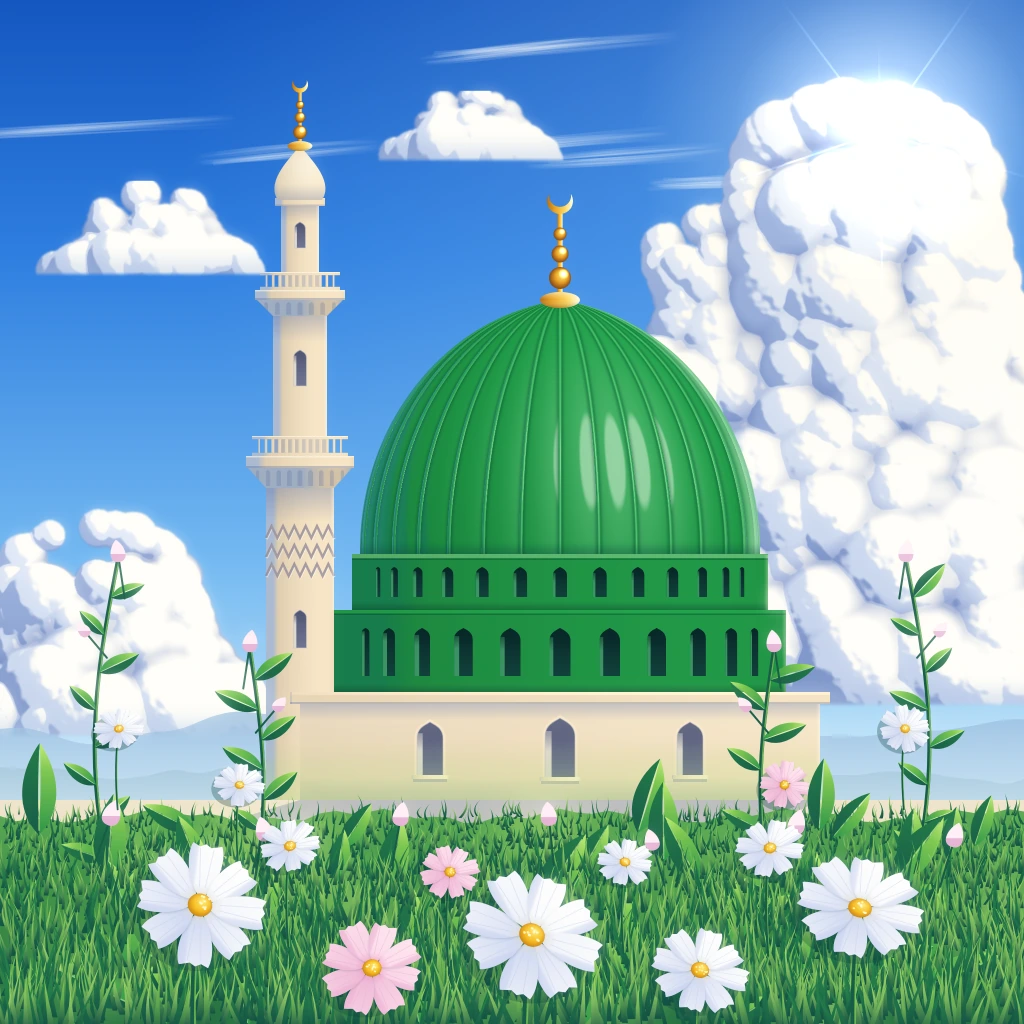
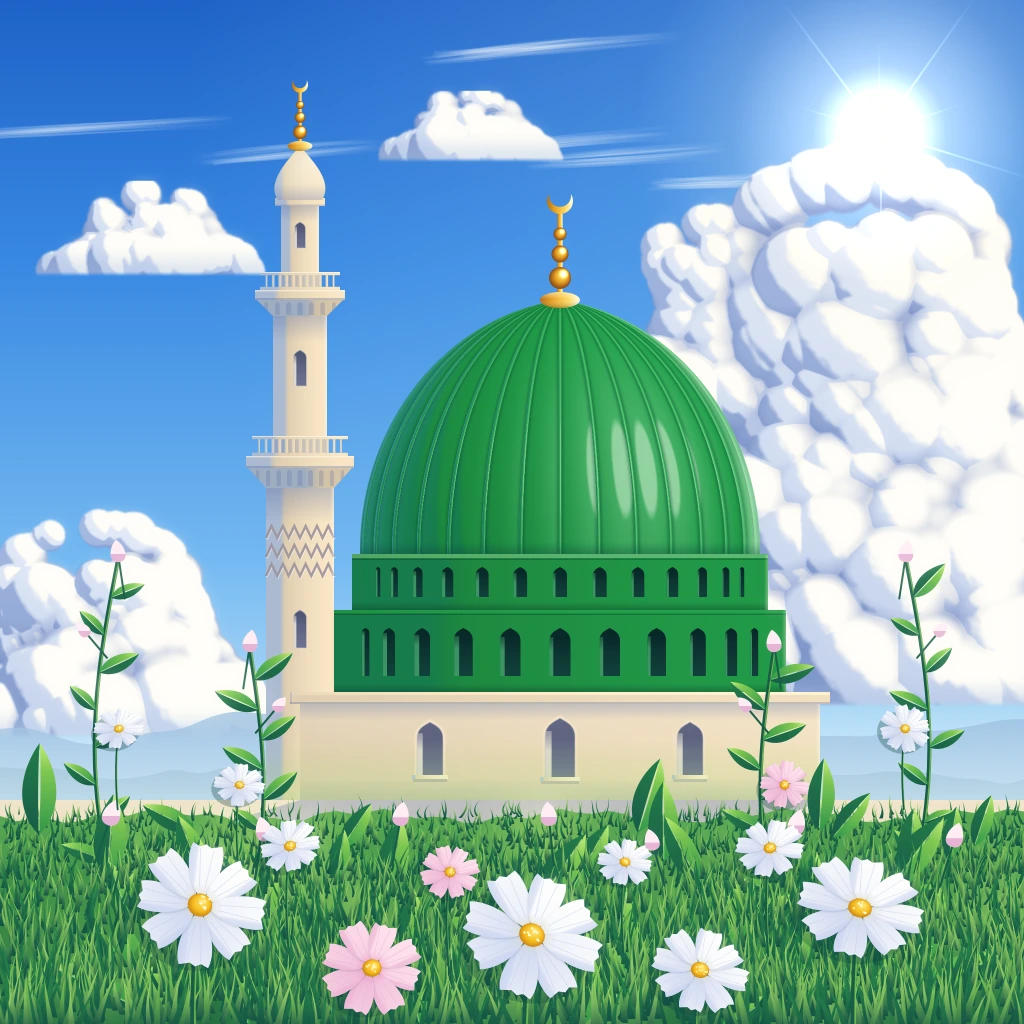
Atölye: vektör grafikleri (S-126–S-130) gözden geçirildi
Claude-Session: https://claude.ai/code/session_01Q8CfoBGMPN7gfLWQYpMs1J

diff --git a/atolye/stiller/S-157-yumusak-kabartma/ornek.html b/atolye/stiller/S-157-yumusak-kabartma/ornek.html
@@ -233,13 +233,13 @@
   const boyaC = S.yeniTuval(N, N), B = boyaC.getContext('2d', { willReadFrequently: true });
   B.setTransform(SS, 0, 0, SS, 0, 0);
   const R = {
-    gokUst: '#CFE0EF', gokAlt: '#E6EEF4', zemin: '#F1E5D2', zeminAlt: '#ECDDC6',
-    gunes: '#F5DE96', canak: '#DFE9F2', bulut: '#F5F8FB',
-    tas: '#F2E8D6', tasAcik: '#F6EFE2', pencereTas: '#C2D9E8',
-    kasnakAlt: '#AED9BD', kasnakUst: '#BCE2C9', kubbe: '#ABD9BB', pencereYesil: '#8EC6A2',
-    altin: '#E8CC86',
-    yaprak: '#B9DABE', yaprakKoyu: '#ABD2B2', sap: '#B0D3B6',
-    cicek: '#FBFBF8', orta: '#F2D985', tomurcuk: '#F2CCD4', zikzak: '#E3C98F',
+    gokUst: '#DCD6EE', gokAlt: '#E6E1F2', zemin: '#ECE4F1', zeminAlt: '#E8DFEE',
+    gunes: '#F7E4A2', canak: '#E1DCF0', bulut: '#E4DFF1',
+    tas: '#F4F0F7', tasAcik: '#F7F4FA', pencereTas: '#D3CCE8',
+    kasnakAlt: '#B5DEC9', kasnakUst: '#C2E5D3', kubbe: '#B3DDC7', pencereYesil: '#9CCFB5',
+    altin: '#EED291',
+    yaprak: '#C3E0CE', yaprakKoyu: '#B6D9C3', sap: '#BCDCC8',
+    cicek: '#FDFCFE', orta: '#F5DE96', tomurcuk: '#EDC6DA', zikzak: '#E9D29C',
   };
   {
     const g = B.createLinearGradient(0, 0, 0, 800);
@@ -293,7 +293,7 @@
       const x = bx + dx * s, y = by + dy * s, l = L * s, t = T * s;
       const M = maske([x - l / 2, y - t / 2, x + l / 2, y + t / 2], (m) => { hap(m, x, y, l, t); m.fill(); });
       kabart(M, h, t * 0.45, { prof: 'yastik' });
-      B.fillStyle = 'rgba(255,255,255,0.32)'; hap(B, x, y, l, t); B.fill();
+      B.fillStyle = 'rgba(255,255,255,0.12)'; hap(B, x, y, l, t); B.fill();
     }
   }
 
@@ -453,6 +453,11 @@
   for (const c of S.bitki.cicekler) {
     const tac = S.tacYapraklari(c);
     tac.forEach((e, k) => bitkiKabart(elipsMaske(e), 4.2 + 0.2 * k, c.r * 0.22));
+    for (const e of tac) {
+      const a = e.aci + Math.PI / 5;
+      const a0 = [c.x + Math.cos(a) * c.r * 0.28, c.y + Math.sin(a) * c.r * 0.28], a1 = [c.x + Math.cos(a) * c.r * 0.9, c.y + Math.sin(a) * c.r * 0.9];
+      ekle(cizgiMaske([a0, a1], Math.max(2.6, c.r * 0.07)), -1.6, Math.max(1.3, c.r * 0.035), { prof: 'yastik' });
+    }
     const tp = new Path2D(); for (const e of tac) tp.addPath(P(S.elipsYolu(e)));
     boya(tp, R.cicek);
     const ro = c.r * 0.22;
@@ -467,11 +472,11 @@
     const L = [0.6, -0.6, 0.53];
     const ln = Math.hypot(...L); L[0] /= ln; L[1] /= ln; L[2] /= ln;
     const ux = 0.7071, uy = -0.7071;
-    const Hb2 = bulanik(H, N, N, 26, 3);
+    const Hb2 = bulanik(H, N, N, 30, 3);
     const Hb3 = bulanik(H, N, N, 6, 3);
     const alb = B.getImageData(0, 0, N, N).data;
     const out = ctx.createImageData(N, N), o = out.data;
-    const off = 13 * SS, off2 = 3.5 * SS;
+    const off = 17 * SS, off2 = 4 * SS;
     const rd = S.rng(157);
     const smp = (A, x, y) => { x = clamp(x | 0, 0, N - 1); y = clamp(y | 0, 0, N - 1); return A[y * N + x]; };
     for (let y = 0; y < N; y++) {
@@ -483,17 +488,17 @@
         const dy = (H[y1 * N + x] - H[y0 * N + x]) * SS / (y1 - y0);
         const il = 1 / Math.sqrt(dx * dx + dy * dy + 1);
         const ndl = (-dx * L[0] - dy * L[1] + L[2]) * il;
-        let sh = 1 + (Math.max(0, ndl) / L[2] - 1) * 0.3;
+        let sh = 1 + (Math.max(0, ndl) / L[2] - 1) * 0.38;
         const h0 = H[i];
         // dış/iç gölge ve parıltı: geniş ve dar bulanıklık
         const sd = Math.max(0, smp(Hb2, x + ux * off, y + uy * off) - h0) * 0.7 + Math.max(0, smp(Hb3, x + ux * off2, y + uy * off2) - h0) * 0.5;
         const hd = Math.max(0, smp(Hb2, x - ux * off, y - uy * off) - h0) * 0.7 + Math.max(0, smp(Hb3, x - ux * off2, y - uy * off2) - h0) * 0.5;
-        const golge = 0.56 * (1 - Math.exp(-sd * 0.36));
-        const parilti = 0.85 * (1 - Math.exp(-hd * 0.4));
+        const golge = 0.62 * (1 - Math.exp(-sd * 0.42));
+        const parilti = 0.95 * (1 - Math.exp(-hd * 0.45));
         const dt = rd() - 0.5;
         let r = alb[j] * sh, g = alb[j + 1] * sh, b = alb[j + 2] * sh;
         if (sh > 1) { const k = Math.min(1, (sh - 1) * 0.9); r = alb[j] + (255 - alb[j]) * k; g = alb[j + 1] + (255 - alb[j + 1]) * k; b = alb[j + 2] + (255 - alb[j + 2]) * k; }
-        r *= 1 - golge * 1.04; g *= 1 - golge * 0.98; b *= 1 - golge * 0.86;
+        r *= 1 - golge * 0.98; g *= 1 - golge * 1.06; b *= 1 - golge * 0.8;
         r += (255 - r) * parilti; g += (255 - g) * parilti; b += (255 - b) * parilti;
         o[j] = r + dt; o[j + 1] = g + dt; o[j + 2] = b + dt; o[j + 3] = 255;
       }

diff --git a/atolye/stiller/S-145-animasyon-arka-plani/ornek.html b/atolye/stiller/S-145-animasyon-arka-plani/ornek.html
@@ -845,12 +845,12 @@
   const tuval = document.getElementById('tuval');
   const ctx = SAHNE.tuval(tuval, 2);
   const PN = G.perlin(1451);
-  const L = G.norm([0.55, -0.6, 0.6]);
+  const L = G.norm([0.72, -0.52, 0.46]);
   const GUNES = { x: 880, y: 132 };
 
   // ---------------------------------------------------------------- palet
-  const GOK0 = G.hex('#1557C0');
-  const GOK1 = G.hex('#2F7FE0');
+  const GOK0 = G.hex('#1F63C8');
+  const GOK1 = G.hex('#3888E2');
   const GOK2 = G.hex('#74B9F2');
   const GOK3 = G.hex('#CDEBFA');
   const TAS = G.hex('#FFF9EE');
@@ -972,7 +972,7 @@
     const yTop = Math.min(...P.map((p) => p.y - p.r));
     const c = G.bulutH(P, {
       x0: kutu[0], y0: kutu[1], w: kutu[2], h: kutu[3], olcek: 1.25,
-      L3: [0.6, -0.62, 0.5], tabanY: taban, tabanYum: 3, gur: PN, gurAmp: 3, gurFrek: 0.06, yumusat: 1.6, genis: 26, aoOlcek: 14,
+      L3: [0.6, -0.62, 0.5], tabanY: taban, tabanYum: 3, gur: PN, gurAmp: 1.3, gurFrek: 0.05, yumusat: 1.6, genis: 26, aoOlcek: 14,
       renk(ndl, ao, yer) {
         const d = G.kenet((yer.y - yTop) / Math.max(1, taban - yTop), 0, 1);
         const t = 0.48 * G.yumusak(0.0, 0.14, ndl) + 0.52 * G.yumusak(0.42, 0.56, ndl);
@@ -983,7 +983,7 @@
         col = G.karis(col, [118, 140, 196], ao * 0.6);
         // güneşe yakın: sıcak parlaklık
         const gd = Math.hypot(yer.x - GUNES.x, yer.y - GUNES.y);
-        col = G.karis(col, [255, 246, 222], G.kenet(1 - gd / 380, 0, 1) * 0.5 * t);
+        col = G.karis(col, [255, 244, 220], G.kenet(1 - gd / 320, 0, 1) * 0.3 * t);
         // taban kenarı: aşağıdan gelen hafif yansıma
         col = G.karis(col, [176, 196, 230], G.yumusak(taban - 30, taban, yer.y) * 0.4);
         return col;
@@ -996,7 +996,7 @@
   }
   {
     const rb = SAHNE.rng(4511);
-    const P = kule(rb, 860, 704, 520, 500, 220, 1.1);
+    const P = kule(rb, 860, 704, 452, 500, 230, 1.1);
     // sol omuz: orta yükseklikte ayrı bir kabarık küme
     const omuz = kule(rb, 712, 410, 150, 190, 110, 0.6);
     bulutBoya(P.concat(omuz), [470, 60, 590, 660], 704);
@@ -1370,7 +1370,7 @@
     G.pikselIsle(bc, (d) => {
       for (let i = 0; i < d.length; i += 4) {
         const l = (d[i] * 0.3 + d[i + 1] * 0.55 + d[i + 2] * 0.15) / 255;
-        const k = G.yumusak(0.86, 1.0, l);
+        const k = G.yumusak(0.92, 1.0, l);
         d[i] *= k;
         d[i + 1] *= k;
         d[i + 2] *= k;
@@ -1379,7 +1379,7 @@
     ctx.save();
     ctx.globalCompositeOperation = 'screen';
     ctx.filter = 'blur(14px)';
-    ctx.globalAlpha = 0.42;
+    ctx.globalAlpha = 0.3;
     ctx.drawImage(bc, 0, 0, 1024, 1024);
     ctx.restore();
     // güneş ve mercek hayaletleri

diff --git a/atolye/stiller/S-133-kagit-heykel/ornek.html b/atolye/stiller/S-133-kagit-heykel/ornek.html
@@ -34,21 +34,21 @@
   const yumusak = (a, b, x) => { const t = Math.max(0, Math.min(1, (x - a) / (b - a))); return t * t * (3 - 2 * t); };
 
   const PAL = {
-    yesil: ['#357F50', '#68B37F', '#B4E0BC'],
-    yesilK: ['#2C5E40', '#3E7A55', '#5A9870'],
-    tas: ['#C8C0B6', '#EAE5DF', '#FFFEFB'],
-    tasK: ['#9A9184', '#B3AA9C', '#CCC4B6'],
-    altin: ['#B98E35', '#E3C06A', '#FFF0B8'],
-    sari: ['#E7B95A', '#F6D98C', '#FFF4CF'],
-    bulut: ['#C9D2E0', '#ECF0F6', '#FFFFFF'],
-    tepe1: ['#A9C9C0', '#CBE1D8', '#E8F3EE'],
-    tepe2: ['#9CC4A6', '#BFDCC2', '#E2F1E1'],
-    zemin: ['#DCCFBB', '#EFE7DA', '#FBF8F1'],
-    nane: ['#88BE98', '#AED6B6', '#D6EED9'],
-    yaprak: ['#4F9264', '#7DB98C', '#B5DDB9'],
-    yaprak2: ['#62A174', '#93C99F', '#C6E7C8'],
-    beyaz: ['#D8CDD3', '#F3EEF0', '#FFFFFF'],
-    pembe: ['#E3A9B7', '#F2C9D2', '#FBE6EB'],
+    yesil: ['#17603A', '#38995B', '#B4EBBE'],
+    yesilK: ['#1E4D33', '#2C6A46', '#478860'],
+    tas: ['#C9BCAD', '#EFE8DE', '#FFFEFA'],
+    tasK: ['#94877A', '#AE9F8F', '#C8BAA8'],
+    altin: ['#B4852A', '#E6BE5C', '#FFF1B8'],
+    sari: ['#EDA93A', '#F8CD6A', '#FFF2C4'],
+    bulut: ['#D6D2D8', '#F3F1F2', '#FFFFFF'],
+    tepe1: ['#8DBE8E', '#B6DAAA', '#E0F1D2'],
+    tepe2: ['#74B07E', '#9ECF97', '#D2ECC2'],
+    zemin: ['#DDB07C', '#F2D2A6', '#FDEFD9'],
+    nane: ['#5FA86E', '#8FCB90', '#CDEDC4'],
+    yaprak: ['#3C8752', '#6DB57D', '#B1E0B3'],
+    yaprak2: ['#4E9762', '#86C892', '#C2E9C3'],
+    beyaz: ['#D9C6C8', '#F6EFEE', '#FFFFFF'],
+    pembe: ['#E7959F', '#F4BFC3', '#FDE6E5'],
   };
 
   // ------------------------------------------------------------ kâğıt dokusu: ince, düzgün çizim kâğıdı
@@ -123,11 +123,13 @@
     lg.globalAlpha = 1;
     lg.globalCompositeOperation = 'source-over';
     const g = Object.assign({ x: -9, y: 13, b: 22, a: 0.17 }, o.g || {});
-    g.a *= 1.35; g.x *= 1.25; g.y *= 1.25;
+    // derin stüdyo gölgesi: kabartma zeminden belirgin biçimde kalkık durur
+    g.a *= 1.85; g.x *= 1.75; g.y *= 1.75; g.b *= 1.3;
     const t = Object.assign({ x: -2, y: 3, b: 4, a: 0.2 }, o.t || {});
+    t.a *= 1.4; t.x *= 1.3; t.y *= 1.3;
     ana.save();
     ana.setTransform(1, 0, 0, 1, 0, 0);
-    ana.shadowColor = `rgba(70,64,80,${g.a})`;
+    ana.shadowColor = `rgba(84,60,64,${g.a})`;
     ana.shadowBlur = g.b * OL; ana.shadowOffsetX = g.x * OL; ana.shadowOffsetY = g.y * OL;
     ana.drawImage(LT, 0, 0);
     ana.shadowColor = `rgba(60,52,60,${t.a})`;

diff --git a/atolye/stiller/S-123-gradyan-ag/ornek.html b/atolye/stiller/S-123-gradyan-ag/ornek.html
@@ -351,8 +351,8 @@
         const kenar = Math.pow(1 - Math.max(0, n[2]), 2.5) * Math.max(0, n[0] * 0.7 + n[1] * 0.5); // gümüş kenar
         for (let q = 0; q < 3; q++) {
           const amb = gok[q] * (0.6 + 0.24 * n[1]);
-          const v = gun[q] * Math.pow(wrap, 1.25) * 0.98 * (1 - 0.72 * tabanT) + amb * 0.62 * (1 - 0.22 * tabanT) + kenar * 0.4 * gun[q];
-          m[o + q] = kod(Math.max(v, amb * 0.5));
+          const v = gun[q] * Math.pow(wrap, 1.25) * 0.98 * (1 - 0.62 * tabanT) + amb * 0.62 * (1 - 0.16 * tabanT) + kenar * 0.4 * gun[q];
+          m[o + q] = kod(Math.max(v, amb * 0.56));
         }
       }
     }
